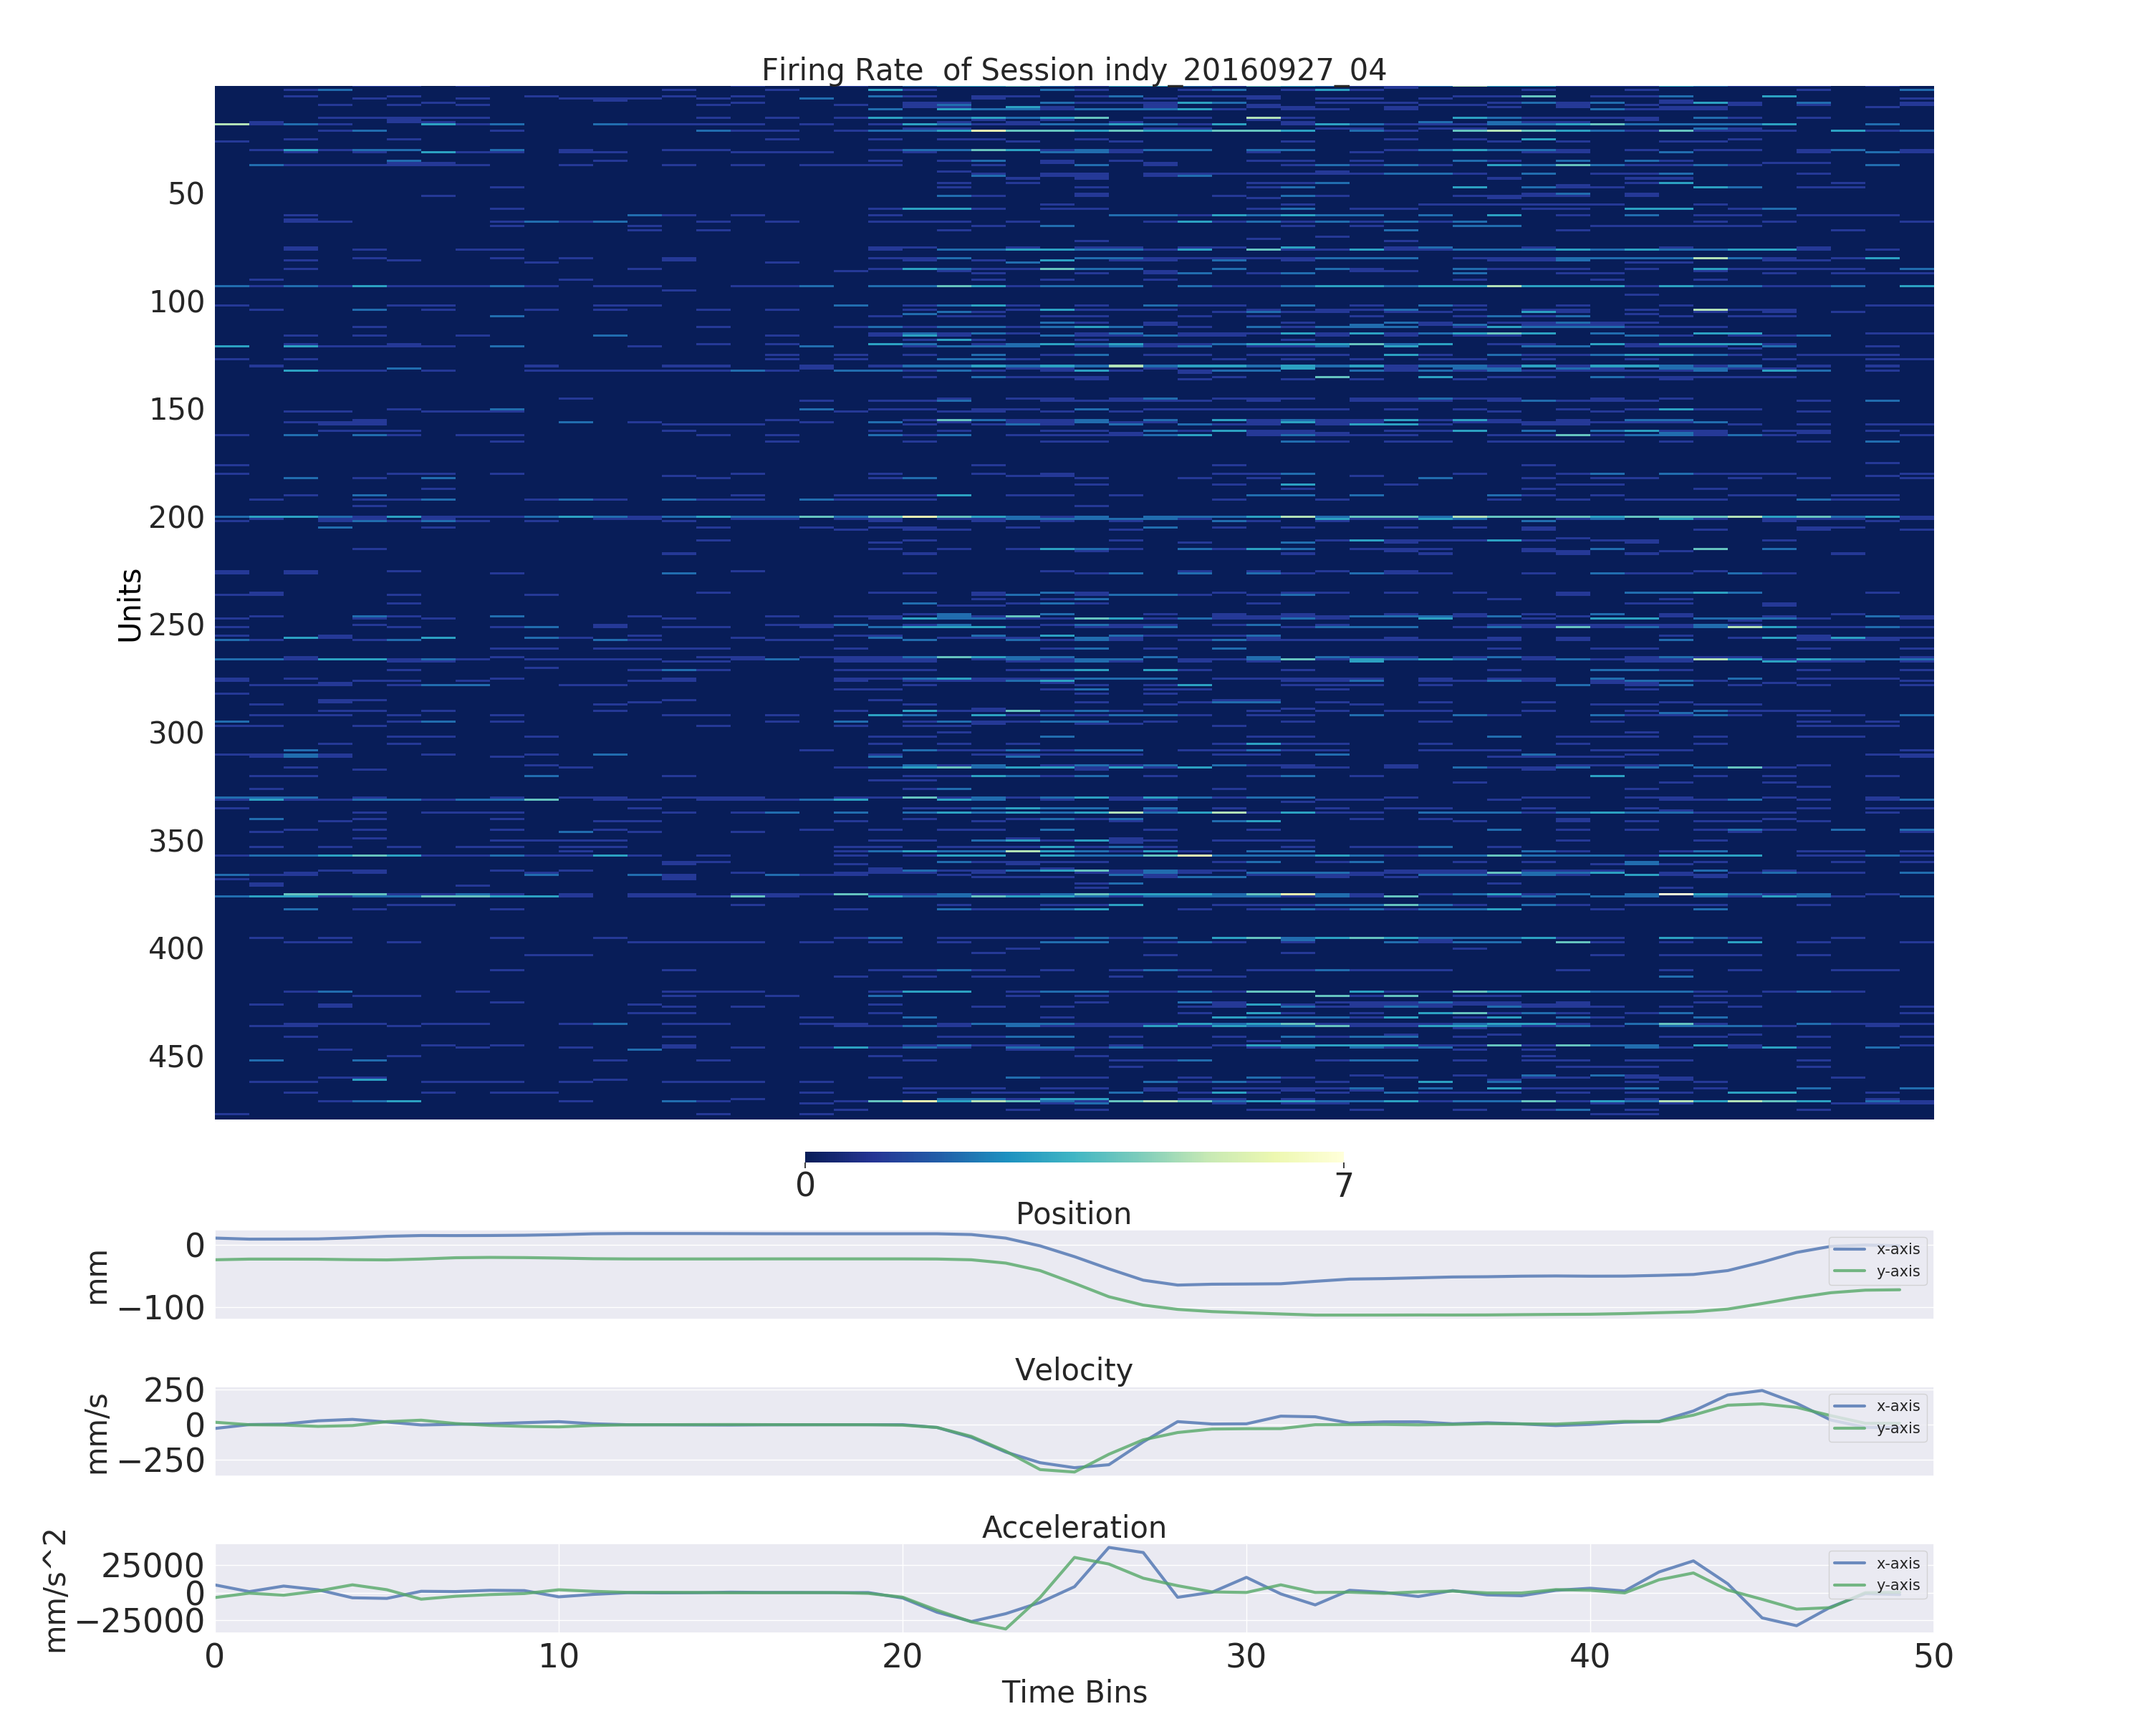
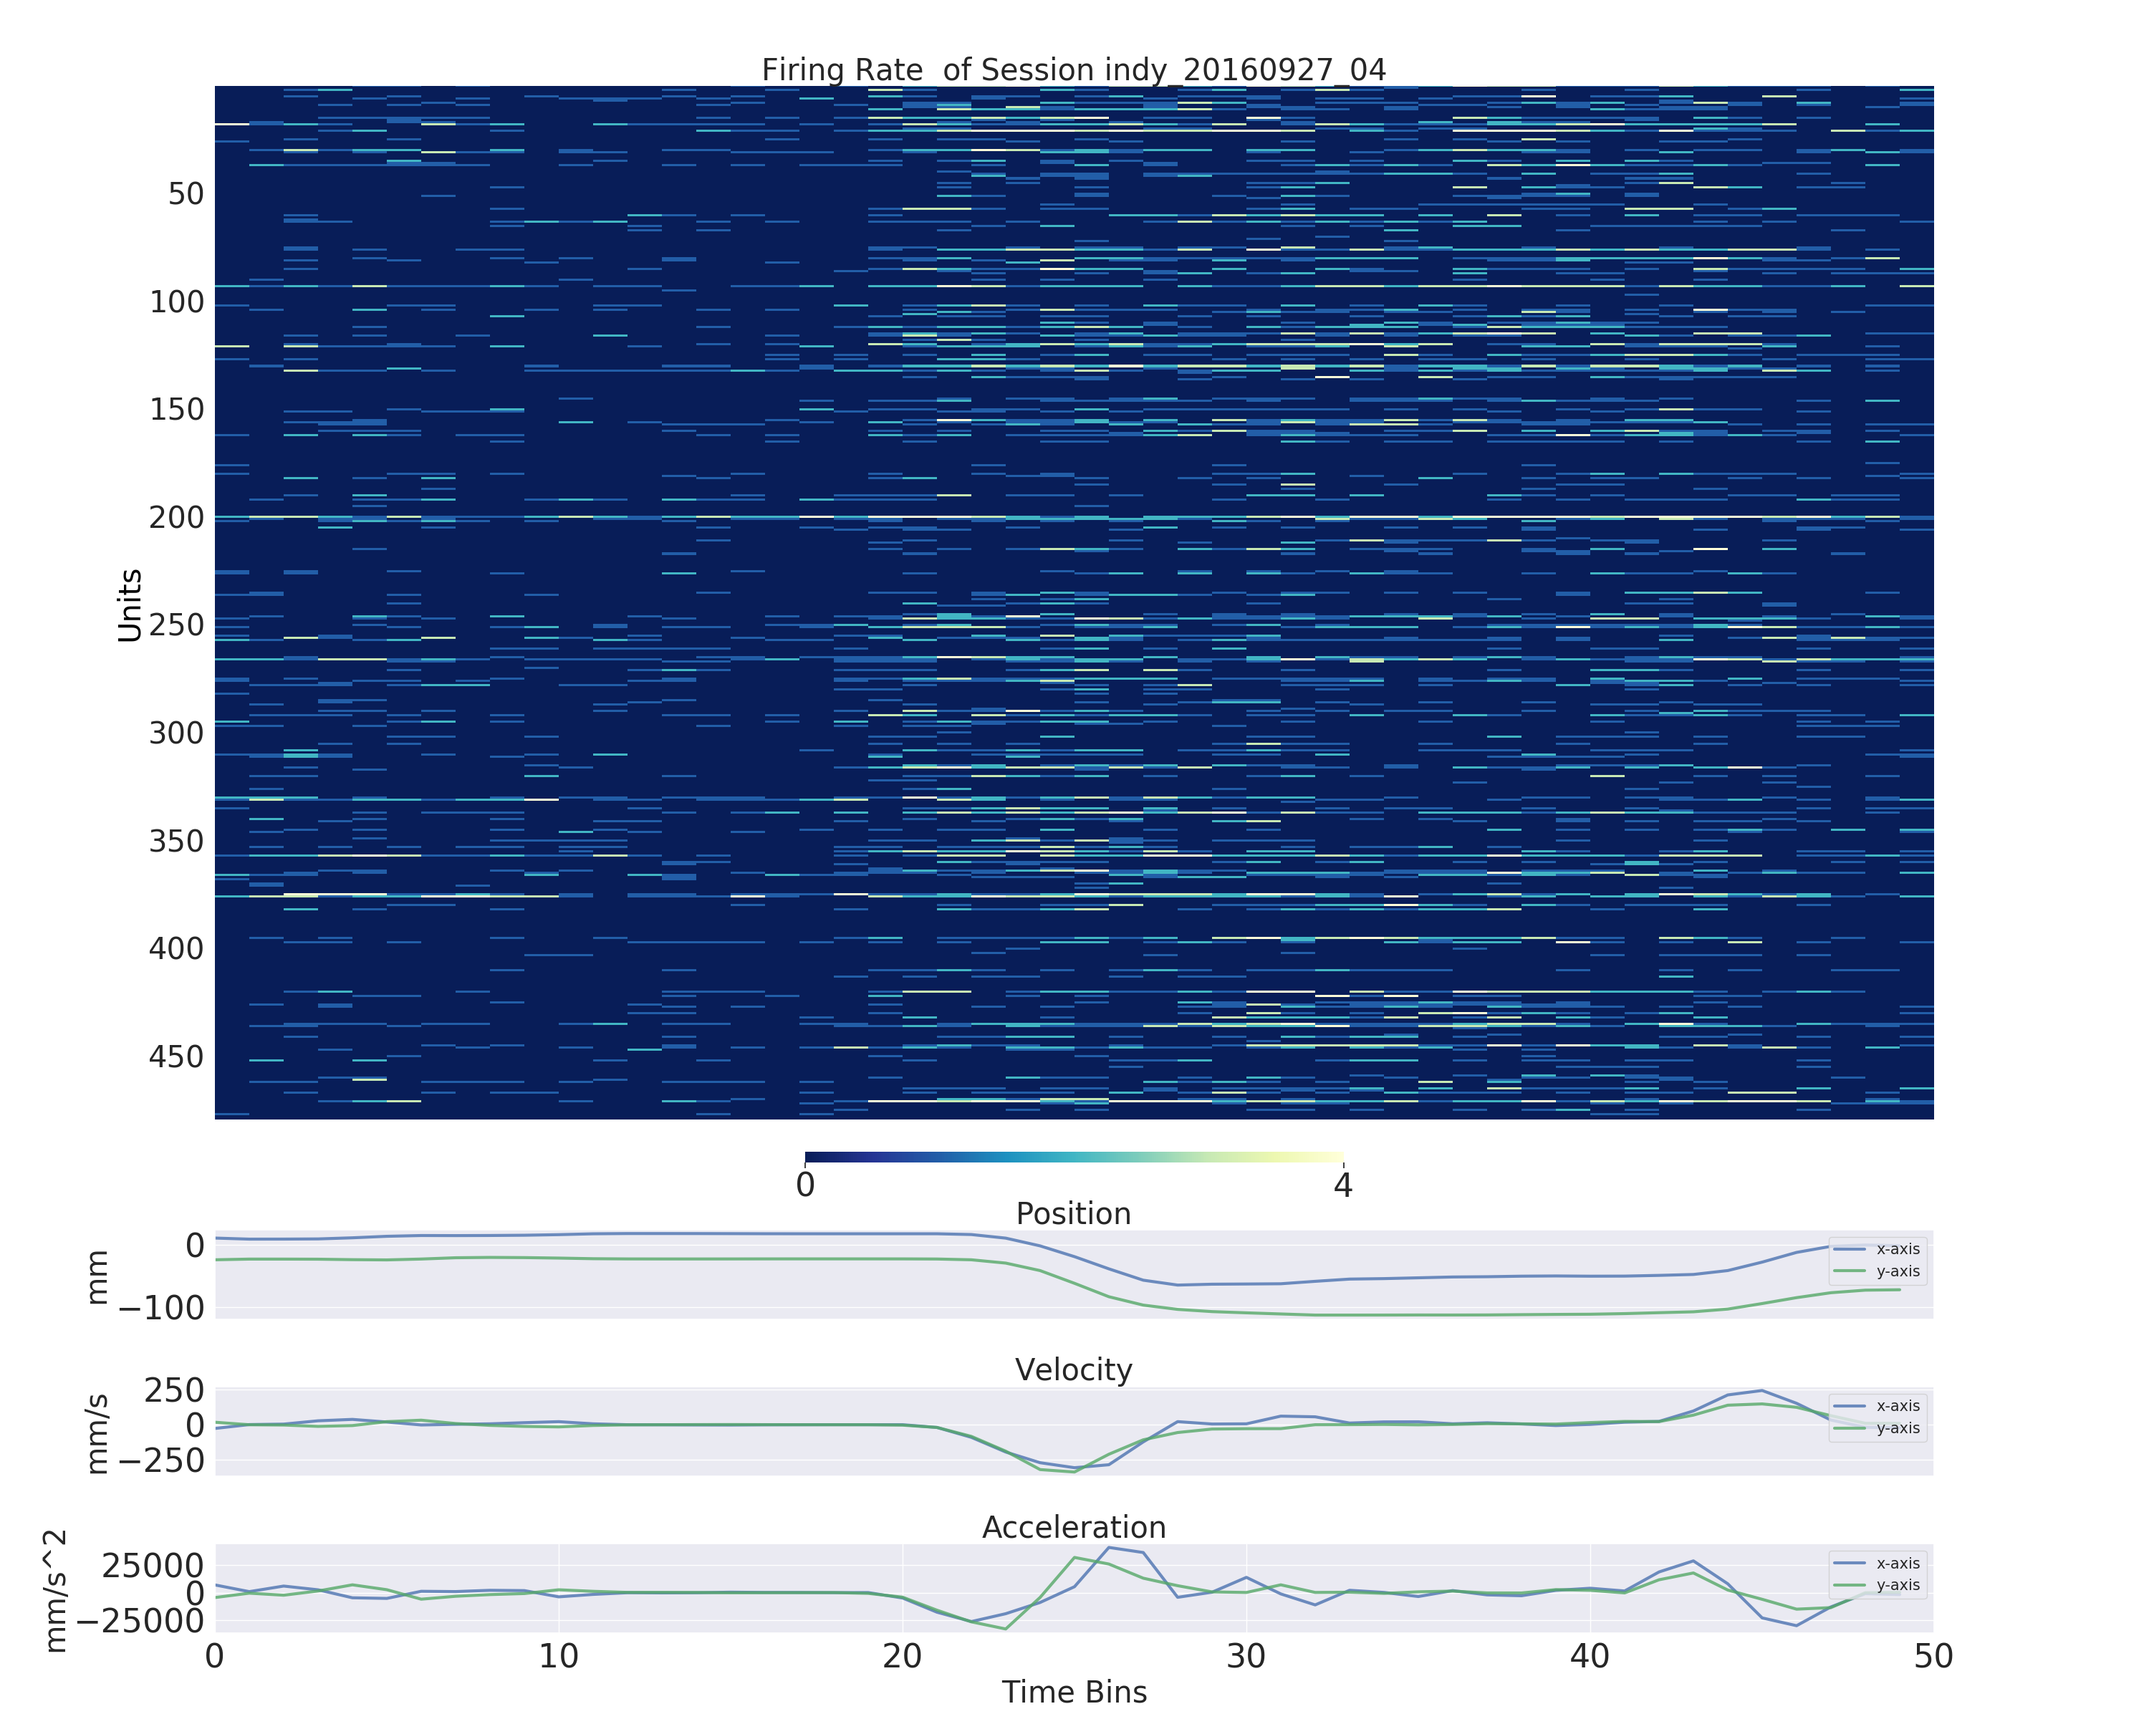
firing rate + attention map + kinematic reconstruction

diff --git a/Python_code/Deep_Learning_Models/Attention_Map_Plotting.py b/Python_code/Deep_Learning_Models/Attention_Map_Plotting.py
@@ -9,6 +9,7 @@ import torch.nn.functional as F
 import torch.utils.data as Data
 from torch.utils.data import Dataset, DataLoader
 from matplotlib.colors import LogNorm
+import matplotlib.ticker as ticker
 
 my_fontsize=30
 
@@ -58,45 +59,66 @@ class Plotting():
         firing_rate_collector=firing_rate_collector[:time_bin_to_plot,:]
         attn_weight_matrix_all=attn_weight_matrix_all[:time_bin_to_plot,:]
 
-        sns.set(font_scale=1.5)
-        plt.rcParams["figure.figsize"] = (16,9)
+        sns.set(font_scale=3)
+        plt.rcParams["figure.figsize"] = (30,30)
 
         time=[]
         for i in range(time_bin_to_plot):
             time+=[i]
 
-        f, ax = plt.subplots(2, 1, gridspec_kw={'height_ratios': [3,2],  "hspace":0.2 ,"left":0.1, "right":0.9, "top":0.95, "bottom":0.05} )
+        f, ax = plt.subplots(3, 1, gridspec_kw={'height_ratios': [5,3,2],  "hspace":0.2 ,"left":0.1, "right":0.9, "top":0.95, "bottom":0.05} )
+
+        firing_rate_data = firing_rate_collector.transpose()
+        cbar_kws_firingrate = {"orientation": "horizontal", "shrink": 0.5, "aspect":50,"use_gridspec":"True", "fraction":0.01 , "pad":0.03, 'ticks' : [ np.min(firing_rate_data),  4 ]}
+        sns.heatmap( data=firing_rate_data , ax=ax[0], vmax=4, cbar_kws=cbar_kws_firingrate, cmap='YlGnBu_r', yticklabels=True, xticklabels=False ) # norm=LogNorm()
+    
+        ax[0].set_yticklabels(ax[0].get_ymajorticklabels(), fontsize = my_fontsize, rotation=0) # This will get correct row numbers of data matrix
+
+        # b, t = ax[0].get_ylim() # discover the values for bottom and top
+        # b += 0.5 # Add 0.5 to the bottom
+        # t -= 0.5 # Subtract 0.5 from the top
+        # ax[0].set_ylim(b, t) # update the ylim(bottom, top) values
+
+        ax[0].yaxis.set_major_locator(ticker.MultipleLocator(50))
+        ax[0].yaxis.set_major_formatter(ticker.ScalarFormatter())
+
+        # ax[0].set_yticklabels(ax[0].get_yticklabels(), rotation=0) # This will get wrong row numbers of data matrix
+
+        ax[0].set_title('Firing Rate', fontsize=my_fontsize, color="black")
+        ax[0].set_ylabel('Units', fontsize=my_fontsize, color="black")
+
 
         my_yticklabels=[]
         for ticks_label in range(attn_weight_matrix_all.shape[1]):
             my_yticklabels.append( 't-' + str(  int(attn_weight_matrix_all.shape[1]) -1 - ticks_label) )
 
-        attention_map_data=attn_weight_matrix_all.transpose()
-        cbar_kws={"orientation": "horizontal", "shrink": 0.5, "aspect":50,"use_gridspec":"True", "fraction":0.01 , "pad":0.03, 'ticks' : [ np.min(attention_map_data), np.max(attention_map_data) ]}
-        sns.heatmap( data=attention_map_data , ax=ax[0], cbar_kws=cbar_kws, cmap='coolwarm', yticklabels=my_yticklabels, xticklabels=False ) # norm=LogNorm()
+        attention_map_data = attn_weight_matrix_all.transpose()
 
-        b, t = ax[0].get_ylim() # discover the values for bottom and top
+        cbar_kws_attention = {"orientation": "horizontal", "shrink": 0.5, "aspect":50,"use_gridspec":"True", "fraction":0.01 , "pad":0.03, 'ticks' : [ np.min(attention_map_data), np.max(attention_map_data) ]}
+        sns.heatmap( data=attention_map_data , ax=ax[1], cbar_kws=cbar_kws_attention, cmap='coolwarm', yticklabels=my_yticklabels, xticklabels=False ) # norm=LogNorm()
+
+        b, t = ax[1].get_ylim() # discover the values for bottom and top
         b += 0.5 # Add 0.5 to the bottom
         t -= 0.5 # Subtract 0.5 from the top
-        ax[0].set_ylim(b, t) # update the ylim(bottom, top) values
+        ax[1].set_ylim(b, t) # update the ylim(bottom, top) values
 
-        ax[0].set_yticklabels(ax[0].get_yticklabels(), rotation=0)
-        ax[0].set_title('Attention Map')
-        ax[0].set_ylabel('Past Time Bins')
+        ax[1].set_yticklabels(ax[1].get_ymajorticklabels(), fontsize = my_fontsize, rotation=0)
+        ax[1].set_title('Attention Map', fontsize=my_fontsize, color="black")
+        ax[1].set_ylabel('Past Time Bins', fontsize=my_fontsize, color="black")
 
-        ax[1].set_title( 'Kinematic Variable Reconstruction')
-        ax[1].set_ylabel( 'Position (mm)', rotation=90)
-        # ax[1].set_ylabel( 'Velocity (mm/s)', rotation=90)
-        ax[1].plot( time, my_prediction_1[:time_bin_to_plot], 'b', linewidth=3, label='x-axis prediction', alpha=0.7 )
-        ax[1].plot( time, Ground_Truth_1[:time_bin_to_plot], 'b--', linewidth=3, label='x-axis actual', alpha=0.8 )
+        ax[2].set_title( 'Kinematic Variable Reconstruction', fontsize=my_fontsize, color="black")
+        ax[2].set_ylabel( 'Position (mm)', rotation=90)
+        # ax[2].set_ylabel( 'Velocity (mm/s)', rotation=90)
+        ax[2].plot( time, my_prediction_1[:time_bin_to_plot], 'b', linewidth=3, label='x-axis prediction', alpha=0.7 )
+        ax[2].plot( time, Ground_Truth_1[:time_bin_to_plot], 'b--', linewidth=3, label='x-axis actual', alpha=0.8 )
 
-        ax[1].plot( time, my_prediction_2[:time_bin_to_plot], 'g', linewidth=3, label='y-axis prediction', alpha=0.7 )
-        ax[1].plot( time, Ground_Truth_2[:time_bin_to_plot], 'g--', linewidth=3, label='y-axis actual', alpha=0.8 )
+        ax[2].plot( time, my_prediction_2[:time_bin_to_plot], 'g', linewidth=3, label='y-axis prediction', alpha=0.7 )
+        ax[2].plot( time, Ground_Truth_2[:time_bin_to_plot], 'g--', linewidth=3, label='y-axis actual', alpha=0.8 )
     
-        ax[1].legend(loc='upper right', fontsize=my_fontsize*0.3)
+        ax[2].legend(loc='upper right', fontsize=my_fontsize*0.8)
 
-        ax[1].set_xlim([ time[0], time[-1] ])
-        ax[1].set_xlabel('Time Bins')
+        ax[2].set_xlim([ time[0], time[-1] ])
+        ax[2].set_xlabel('Time Bins', fontsize=my_fontsize, color="black")
 
         plt.savefig( plot_path+'/'+ 'attention_map' +'.png' )
         plt.cla()

diff --git a/Python_code/Pytorch/Plotting_Firing_Rate_Heatmap.py b/Python_code/Pytorch/Plotting_Firing_Rate_Heatmap.py
@@ -359,10 +359,10 @@ sns.set(font_scale=3)
 
 f ,ax = plt.subplots(4,1, gridspec_kw={'height_ratios': [12, 1, 1, 1],  "hspace":0.2 ,"left":0.1, "right":0.9, "top":0.95, "bottom":0.05}, figsize=(my_plot_width, my_plot_height*1.2))
 
-cbar_kws={"orientation": "horizontal", "shrink": 0.5, "aspect":50,"use_gridspec":"True", "fraction":0.01 , "pad":0.03, 'ticks' : [ torch.min(data), torch.max(data) ]}
-sns.heatmap( data=data, xticklabels=False, yticklabels=True, cbar_kws=cbar_kws, cmap='YlGnBu_r', ax=ax[0]) # important, not ax[0] = sns.heatmap(...)
+cbar_kws={"orientation": "horizontal", "shrink": 0.5, "aspect":50,"use_gridspec":"True", "fraction":0.01 , "pad":0.03, 'ticks' : [ torch.min(data), 4 ]}
+sns.heatmap( data=data, vmax=4 ,xticklabels=False, yticklabels=True, cbar_kws=cbar_kws, cmap='YlGnBu_r', ax=ax[0]) # important, not ax[0] = sns.heatmap(...)
 # ax[0].set_xticklabels(ax[0].get_xmajorticklabels(), fontsize = my_fontsize, rotation=0)
-ax[0].set_title('Firing Rate '+ ' of Session '+ session_name, fontsize=my_fontsize)
+ax[0].set_title('Firing Rate from Session '+ session_name, fontsize=my_fontsize)
 ax[0].set_yticklabels(ax[0].get_ymajorticklabels(), fontsize = my_fontsize, rotation=0)
 
 # ax[0].xaxis.set_major_locator(ticker.MultipleLocator(5))

diff --git a/Python_code/Pytorch/Firing_Rate/GRU/single_37_sess_spike_GRU_pos.py b/Python_code/Pytorch/Firing_Rate/GRU/single_37_sess_spike_GRU_pos.py
@@ -57,13 +57,13 @@ session_file_list=List_FILE
 
 # Neural Network Hyperparameters
 model_name = 'GRU_with_Spike_Single_37_Session_2_outputs'
-MAX_EPOCH =   3#150
+MAX_EPOCH = 150
 LEARNING_RATE = 1e-5
 NUMBER_OF_LAYERS = 2
 OUTPUT_DIM = 2
 BATCH_SIZE = 16
 HIDDEN_DIMENSION = 256
-max_timestep = 5 #20
+max_timestep = 20
 # Model Performance Lists
 R_square_across_all_sessions=[]
 SNR_across_all_sessions=[]
